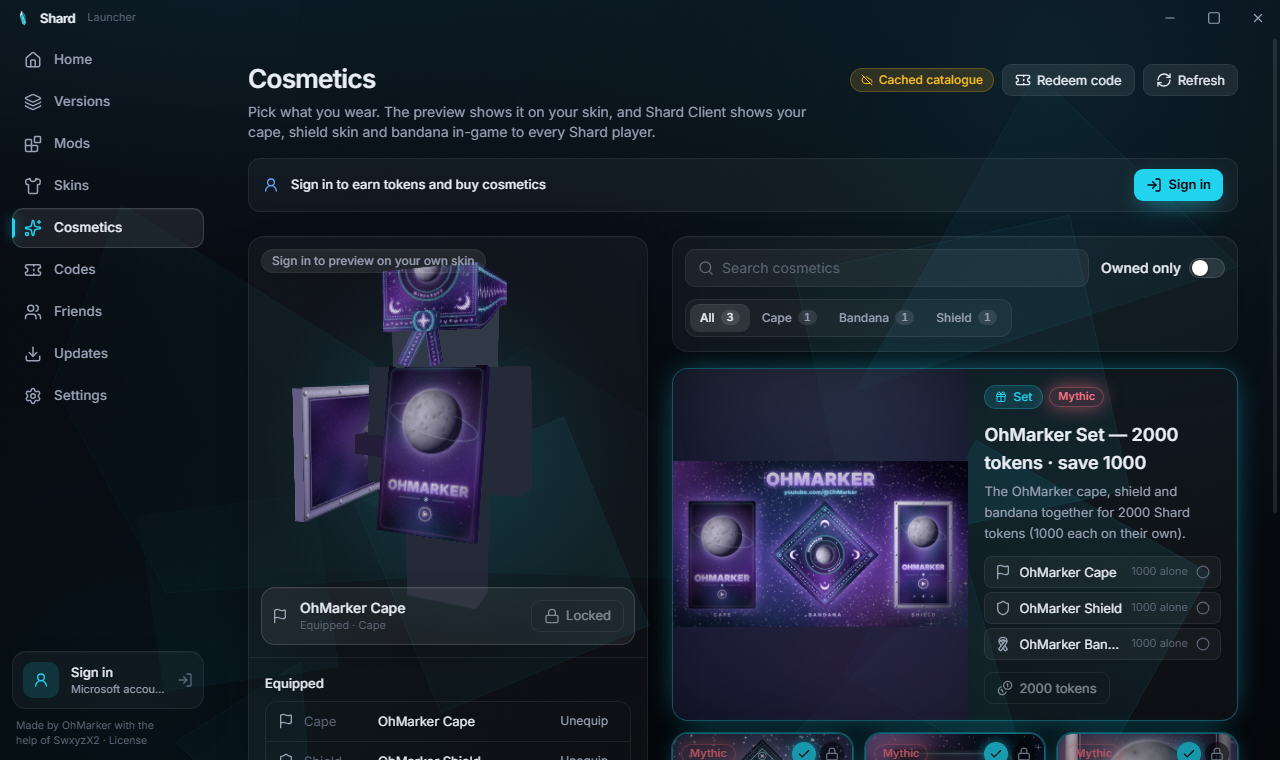
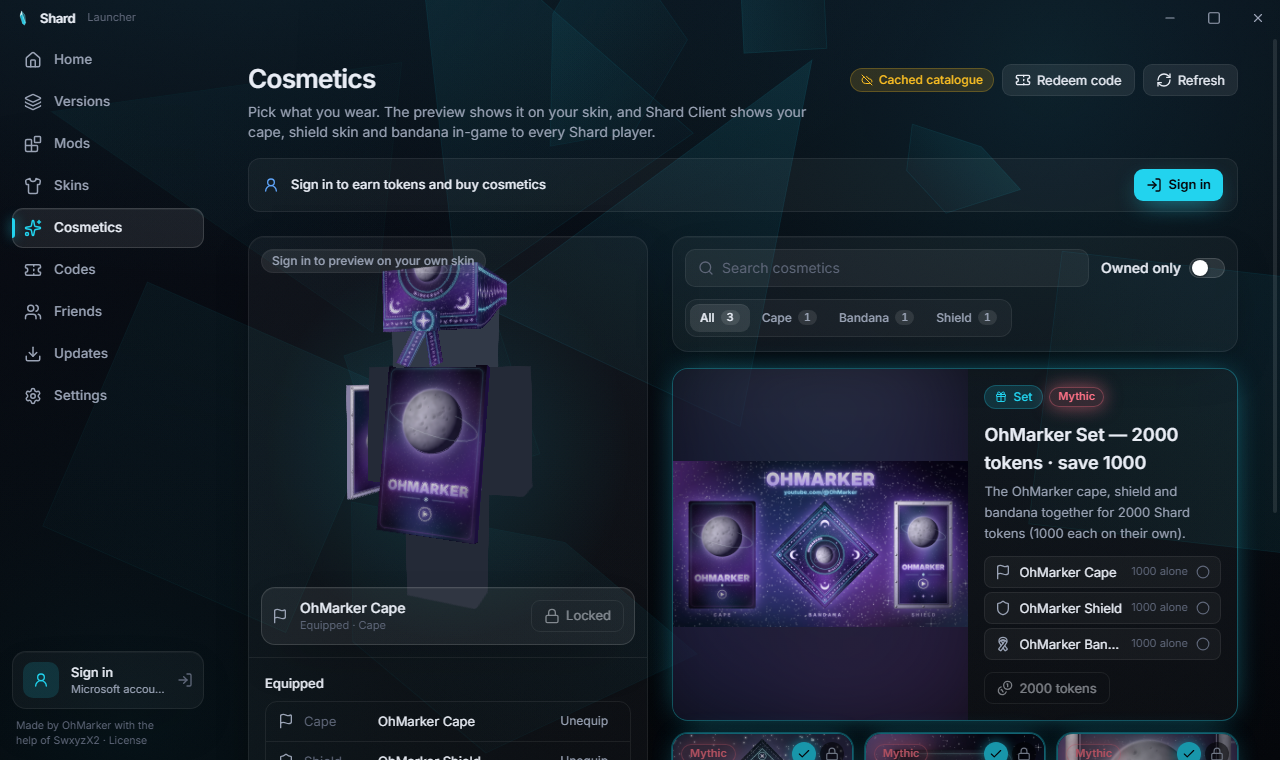
3D preview: shield hangs upright at the side of the forearm
Vanilla's held pose made the shop preview's shield huge, sideways and
sticking out in front. It now hangs upright along the outside of the
left forearm at 0.55 scale (about torso height), art facing out and
turned 12 degrees towards the front, clear of the arm, still following
the arm animation. Screenshots re-shot, with a three-quarter view.

Changed region(s): [[0.2188, 0.4842, 0.3125, 0.6961], [0.75, 0.575, 0.8438, 0.6961]]

diff --git a/src/renderer/src/components/player/cosmetic-geometry.ts b/src/renderer/src/components/player/cosmetic-geometry.ts
@@ -279,29 +279,40 @@ export function shieldQuads(): Quad[] {
   ]
 }
 
-const DEG = Math.PI / 180
+/** Shield size on the preview model, relative to vanilla: about torso height (22 px -> ~12). */
+export const SHIELD_SCALE = 0.55
+/** The left arm's skin overlay in arm space: x up to 3.25 and z -2.25..2.25 (wide arms). */
+export const ARM_OUTER_X = 3.25
+export const ARM_HALF_DEPTH = 2.25
+/** Gap kept between the overlay and the plate. */
+export const SHIELD_CLEARANCE = 0.1
+/** Height of the plate's centre in arm space: around the forearm (the arm spans y -10..2). */
+export const SHIELD_CENTRE_Y = -6
+/** Turned this far towards the front so a front view still sees some of the art. */
+export const SHIELD_YAW = 12
 
 /**
- * Where vanilla draws a shield held in the off hand, in skinview3d's left-arm space (pivot at the
- * shoulder, y up, face towards +z), for geometry built by shieldQuads + toBuffers.
+ * Where the preview puts the shield, in skinview3d's left-arm space (pivot at the shoulder, y up,
+ * face towards +z), for geometry built by shieldQuads + toBuffers.
  *
- * The chain is ItemInHandLayer (rotate X -90, Y 180, translate (-1/16, 2/16, -10/16)), the shield
- * item's thirdperson_lefthand display (translation [10, 6, 12] mirrored to x -10, rotation Y 90
- * mirrored to -90), the builtin model's (-8, -8, -8) offset and ShieldModel's scale (1, -1, -1),
- * all in model pixels, wrapped in the Minecraft <-> skinview3d turn (x, -y, -z).
+ * Not vanilla's held pose (that one is huge and lies sideways, reading badly in a shop): the
+ * shield hangs upright along the outside of the forearm, as if strapped to it. Turned about y so
+ * the art (+z) faces away from the body (+x), {@link SHIELD_YAW} degrees towards the front, top
+ * up and unmirrored; scaled to {@link SHIELD_SCALE}; pushed out until the plate's inner face clears
+ * the arm's front corner. The handle then sits inside the arm, peeking out only as a strap.
  */
 export function offhandShieldMatrix(): Matrix4 {
-  const flip = new Matrix4().makeScale(1, -1, -1)
-  return flip
-    .clone()
-    .multiply(new Matrix4().makeRotationX(-90 * DEG))
-    .multiply(new Matrix4().makeRotationY(180 * DEG))
-    .multiply(new Matrix4().makeTranslation(-1, 2, -10))
-    .multiply(new Matrix4().makeTranslation(-10, 6, 12))
-    .multiply(new Matrix4().makeRotationY(-90 * DEG))
-    .multiply(new Matrix4().makeTranslation(-8, -8, -8))
-    .multiply(new Matrix4().makeScale(1, -1, -1))
-    .multiply(flip)
+  const plateInnerZ = 1 // the plate spans z 1..2 after the (x, -y, -z) turn
+  const yaw = (SHIELD_YAW * Math.PI) / 180
+  // The inner face is a line through (innerX, 0) leaning inwards towards +z by tan(yaw); it must
+  // pass outside the overlay's front-outer corner (ARM_OUTER_X, ARM_HALF_DEPTH).
+  const innerX = ARM_OUTER_X + SHIELD_CLEARANCE + ARM_HALF_DEPTH * Math.tan(yaw)
+  // The shield origin (handle side) sits inwards of the plate by its scaled depth.
+  const centreX = innerX - (plateInnerZ * SHIELD_SCALE) / Math.cos(yaw)
+  return new Matrix4()
+    .makeTranslation(centreX, SHIELD_CENTRE_Y, 0)
+    .multiply(new Matrix4().makeRotationY(Math.PI / 2 - yaw))
+    .multiply(new Matrix4().makeScale(SHIELD_SCALE, SHIELD_SCALE, SHIELD_SCALE))
 }
 
 // ---------------------------------------------------------------------------

diff --git a/tests/cosmetic-geometry.test.ts b/tests/cosmetic-geometry.test.ts
@@ -89,14 +89,41 @@ describe('shield geometry (vanilla ShieldModel)', () => {
     expect(north.uv[right][0] * 64).toBe(13)
   })
 
-  it('holds it at the outside of the left arm with the art facing out', () => {
+  it('hangs upright along the outside of the left forearm, art facing out', () => {
     const m = offhandShieldMatrix()
-    const centre = new Vector3(0, 0, 1.5).applyMatrix4(m) // plate centre in skinview3d space
-    expect(centre.x).toBeCloseTo(4.5)
-    expect(centre.y).toBeCloseTo(-6)
-    expect(centre.z).toBeCloseTo(0)
-    const facing = new Vector3(0, 0, 1).transformDirection(m) // art normal
-    expect(facing.x).toBeCloseTo(1)
+    const b = toBuffers(shieldQuads())
+    const pts: Vector3[] = []
+    for (let i = 0; i < b.positions.length; i += 3) pts.push(new Vector3().fromArray(b.positions, i).applyMatrix4(m))
+    const plate = pts.slice(0, 24) // the first six faces (four corners each) are the plate
+    const span = (k: 'x' | 'y' | 'z') => {
+      const v = plate.map((p) => p[k])
+      return { min: Math.min(...v), max: Math.max(...v) }
+    }
+    // No arm in the plate: every corner of the arm's overlay box (x -1.25..3.25, y -10.25..2.25,
+    // z -2.25..2.25) lies inwards of the plate's inner face.
+    const n = new Vector3(0, 0, 1).transformDirection(m)
+    const inner = Math.min(...plate.map((p) => p.dot(n)))
+    for (const x of [-1.25, 3.25]) for (const y of [-10.25, 2.25]) for (const z of [-2.25, 2.25]) {
+      expect(new Vector3(x, y, z).dot(n)).toBeLessThan(inner)
+    }
+    expect(span('z').max - span('z').min).toBeLessThanOrEqual(4 * 1.7)
+    expect(span('x').max - span('x').min).toBeLessThan(2.5) // a slab beside the arm, not sticking out
+    expect(span('y').max - span('y').min).toBeGreaterThan(11)
+    expect(span('y').max - span('y').min).toBeLessThan(14)
+    // Centred on the forearm (the arm spans y -10..2 and z -2..2).
+    expect((span('y').min + span('y').max) / 2).toBeCloseTo(-6)
+    expect(Math.abs((span('z').min + span('z').max) / 2)).toBeLessThan(0.5)
+    // Art (+z in shield space) faces away from the body, a little towards the front; its top is up.
+    const facing = new Vector3(0, 0, 1).transformDirection(m)
+    expect(facing.x).toBeGreaterThan(0.95)
+    expect(facing.z).toBeGreaterThan(0.1)
+    expect(new Vector3(0, 1, 0).transformDirection(m).y).toBeCloseTo(1)
+    // Unmirrored: seen from outside (+x, looking -x, so the viewer's right is -z), the art's right
+    // edge (shield +x) is on the viewer's right.
+    expect(new Vector3(1, 0, 0).transformDirection(m).z).toBeLessThan(-0.95)
+    // The handle stays inside the arm (x -1..3) apart from the strap in the gap.
+    const handle = pts.slice(24)
+    expect(Math.min(...handle.map((p) => p.x))).toBeGreaterThan(-1)
   })
 })
 
